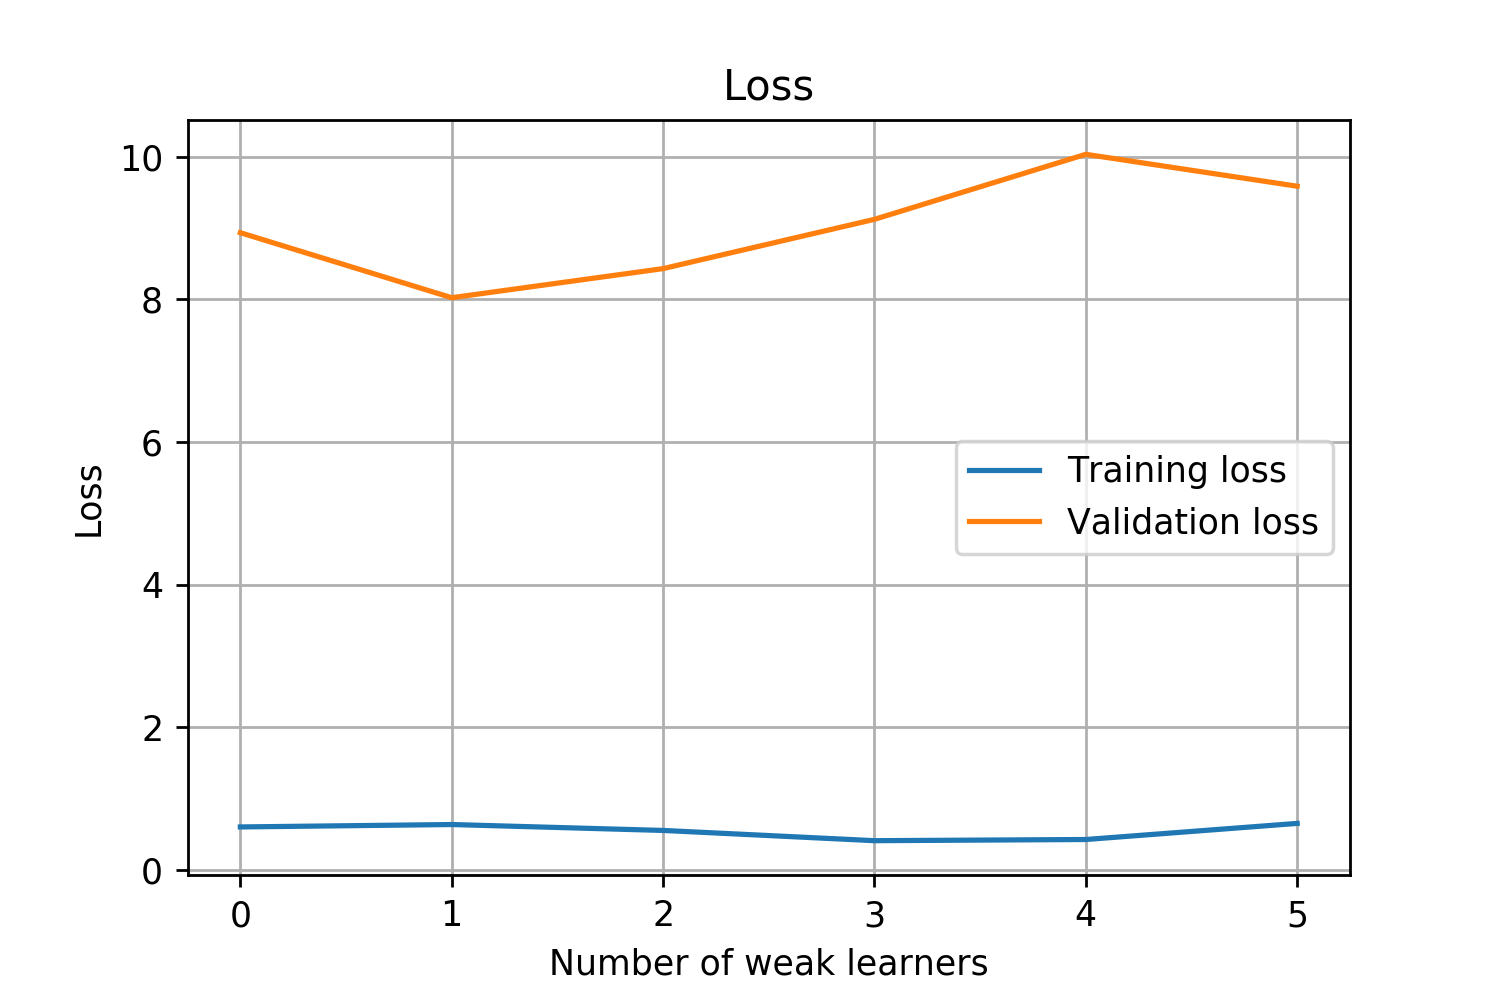
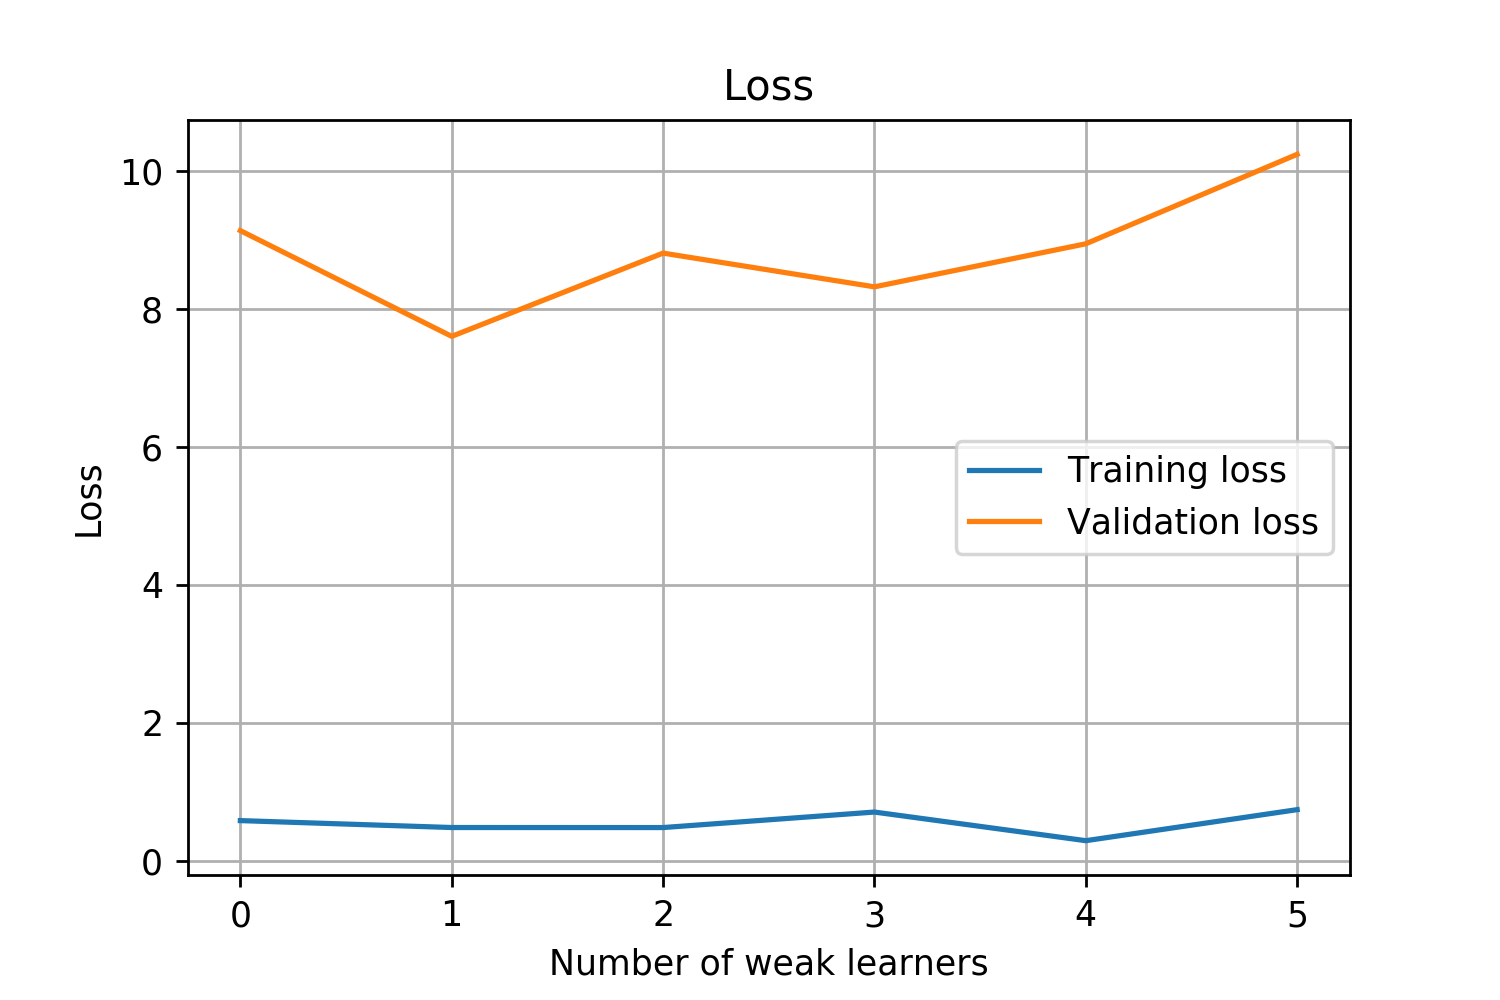
add new results

diff --git a/Testing.py b/Testing.py
@@ -82,7 +82,7 @@ def testEnsemble(path, attacks, numWL, dataset=datasets.CIFAR10, numsamples_trai
         print("Weak Learner ", i, ".  Time Elapsed (s): ", (datetime.now()-startTime).seconds)
 #         ensemble.addWeakLearner(wl[i], wlWeights[i])
         ensemble.addWeakLearner(wl[i], 1.0)
-        ensemble.gradOptWeights(train_loader_mini)
+#         ensemble.gradOptWeights(train_loader_mini)
 #         ensemble.addWeakLearner(wl[i], 0.01)
 #         print("before ens acc", ensemble.accuracies)
         
